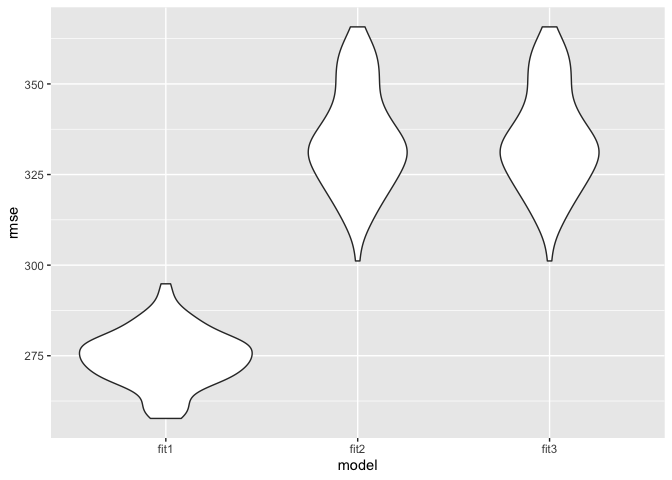
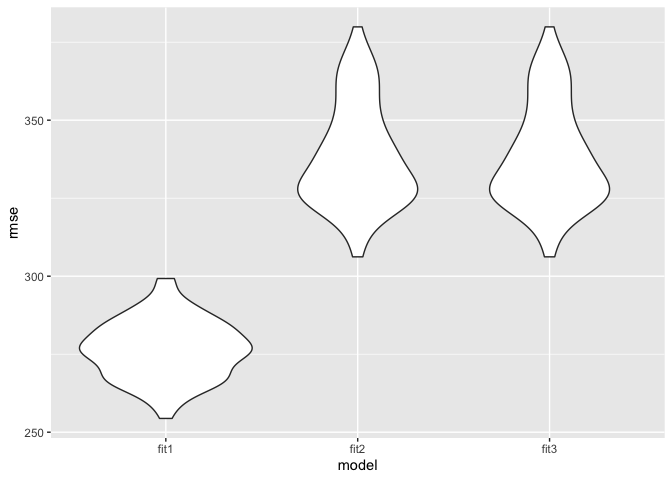
adding quick updates

diff --git a/p8105_hw6_ajp2257.md b/p8105_hw6_ajp2257.md
@@ -200,7 +200,7 @@ step$anova # display results from the stepwise
 ```
 
 ``` r
-# this model is given by the step wise comparision 
+# this model is given by the step wise comparison 
 fit1 = lm(bwt ~ babysex + bhead + blength + delwt + 
                 fincome + gaweeks + mheight + mrace + 
                 parity + ppwt + smoken,
@@ -347,19 +347,20 @@ cv_df %>%
 ![](p8105_hw6_ajp2257_files/figure-gfm/unnamed-chunk-10-1.png)<!-- -->
 
 This violin plot shows that the lowest rmse value come from the fit1
-which is the only I create. I choose the predictors based on a stepwise
-selection so it makes sense that is preforming the best compare to the
-other two. Comparing fit2 against fit3 we don’t see a huge difference so
-if I had to choose one or the other I would choose the simpler model
-without all the interaction terms. However, fit1 does have the lowest
-rmse values and has no over complicating interaction terms therefore I
-would select this model.
+which is the model I created. I choose the predictors based on a
+stepwise selection so it makes sense that is preforming the best compare
+to the other two. Comparing fit2 against fit3 we don’t see a huge
+difference so if I had to choose one or the other I would choose the
+simpler model without all the interaction terms. However, fit1 does have
+the lowest rmse values and has no over complicating interaction terms
+therefore I would select this model.
 
 # Question 3
 
 ##### For this problem, we’ll use the 2017 Central Park weather data that we’ve seen elsewhere. The code chunk below (adapted from the course website) will download these data.
 
 ``` r
+# data 
 weather_df = 
   rnoaa::meteo_pull_monitors(
     c("USW00094728"),
@@ -443,11 +444,11 @@ distribution also seems contained to about 0.86 to 0.94.
 interval = two_quantities %>%
   summarize(
     mean_rsquared = mean(r.squared),
-    lower_CI = quantile(r.squared)[2],
-    upper_CI = quantile(r.squared)[4],
+    lower_CI = quantile(r.squared, 0.025),
+    upper_CI = quantile(r.squared, 0.975),
     mean_log_estimate = mean(log_estimate),
-    lower_CI_log = quantile(log_estimate)[2],
-    upper_CI_log = quantile(log_estimate)[4],
+    lower_CI_log = quantile(log_estimate, 0.025),
+    upper_CI_log = quantile(log_estimate, 0.975),
   )
 
 # printing out the interval 
@@ -457,9 +458,9 @@ interval
     ## # A tibble: 1 x 6
     ##   mean_rsquared lower_CI upper_CI mean_log_estimate lower_CI_log upper_CI_log
     ##           <dbl>    <dbl>    <dbl>             <dbl>        <dbl>        <dbl>
-    ## 1         0.911    0.906    0.917              2.01         2.00         2.03
+    ## 1         0.911    0.894    0.927              2.01         1.97         2.06
 
-The mean value of the r squared values from the bootstrap is 0.9113945
-and has a 95% confidence interval of (0.9059235, 0.9171315). The mean
-value of the log(beta0\*beta1) is 2.0134851 with a 95% confidence
-interval of (1.9979109, 2.0295375).
+The mean value of the r squared values from the bootstrap is 0.9113579
+and has a 95% confidence interval of (0.8938841, 0.9274325). The mean
+value of the log(beta0\*beta1) is 2.0131803 with a 95% confidence
+interval of (1.9665651, 2.0577094).
